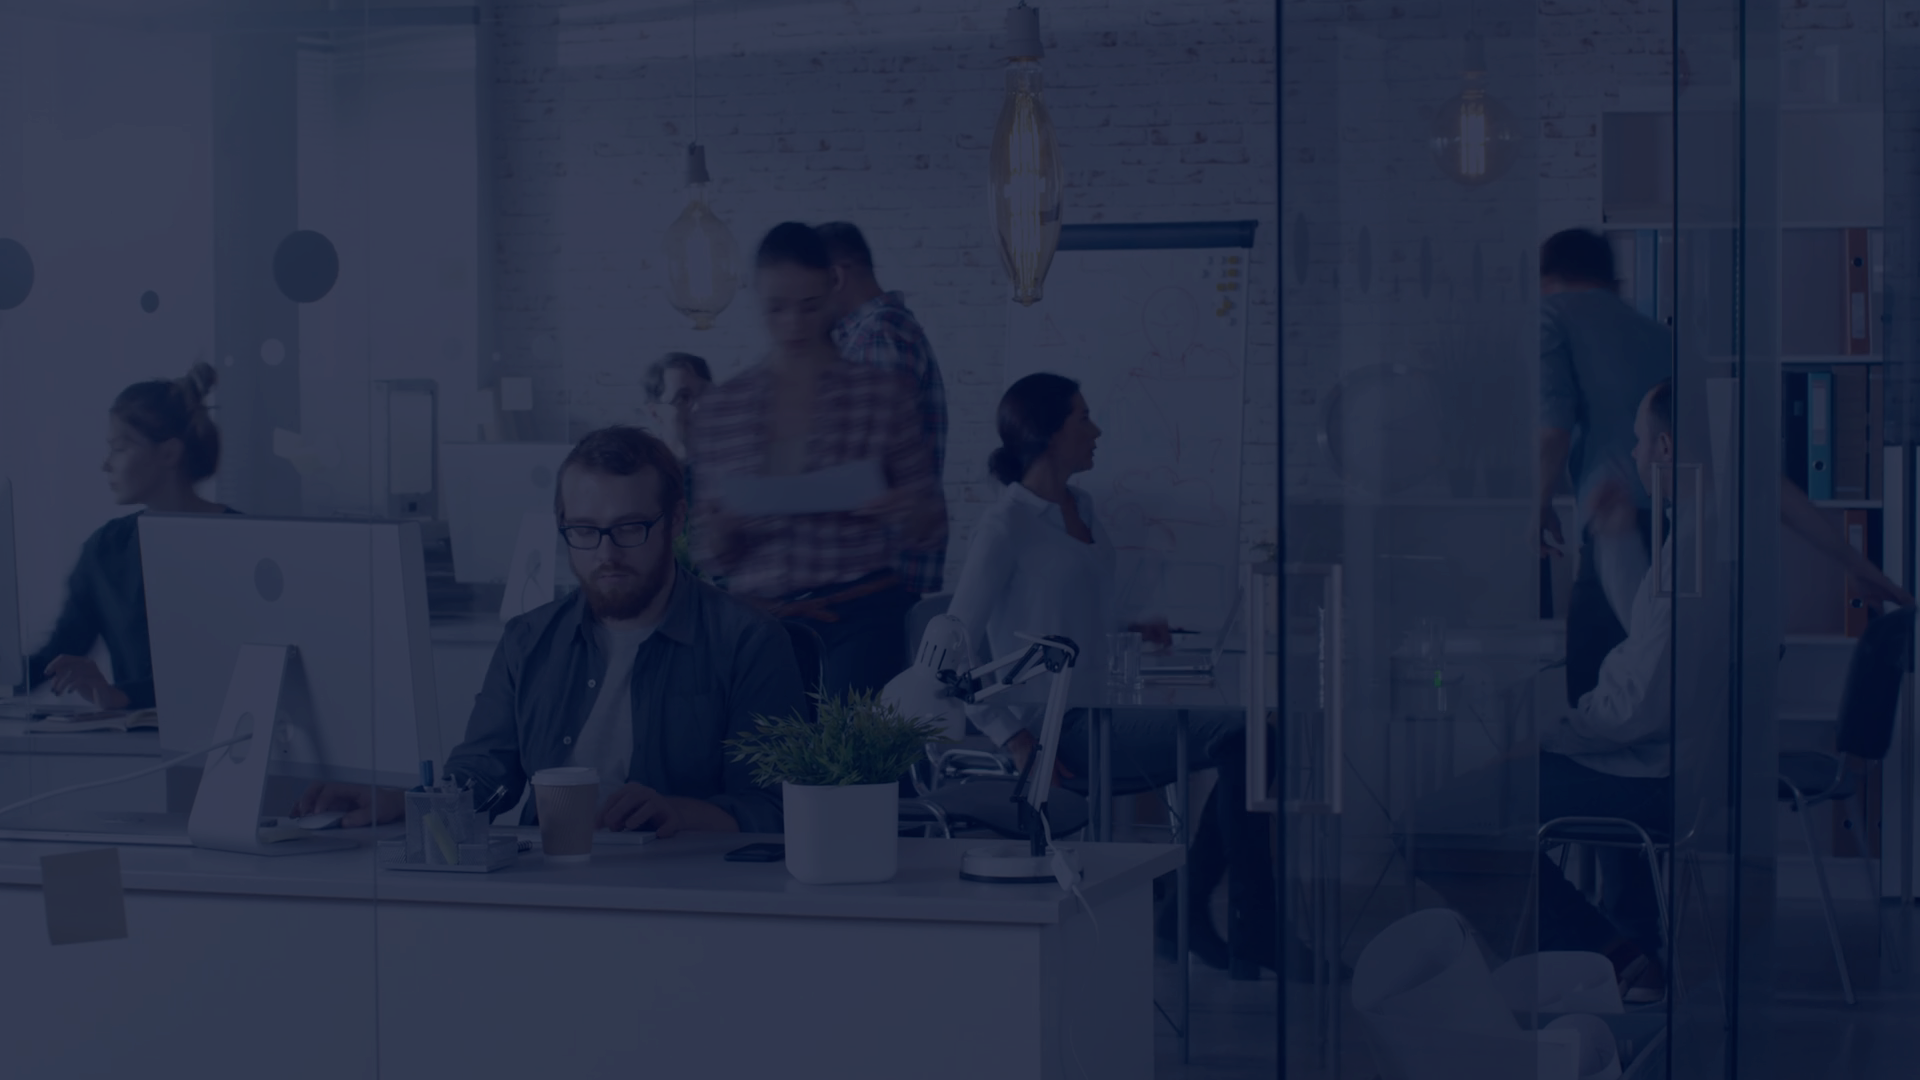
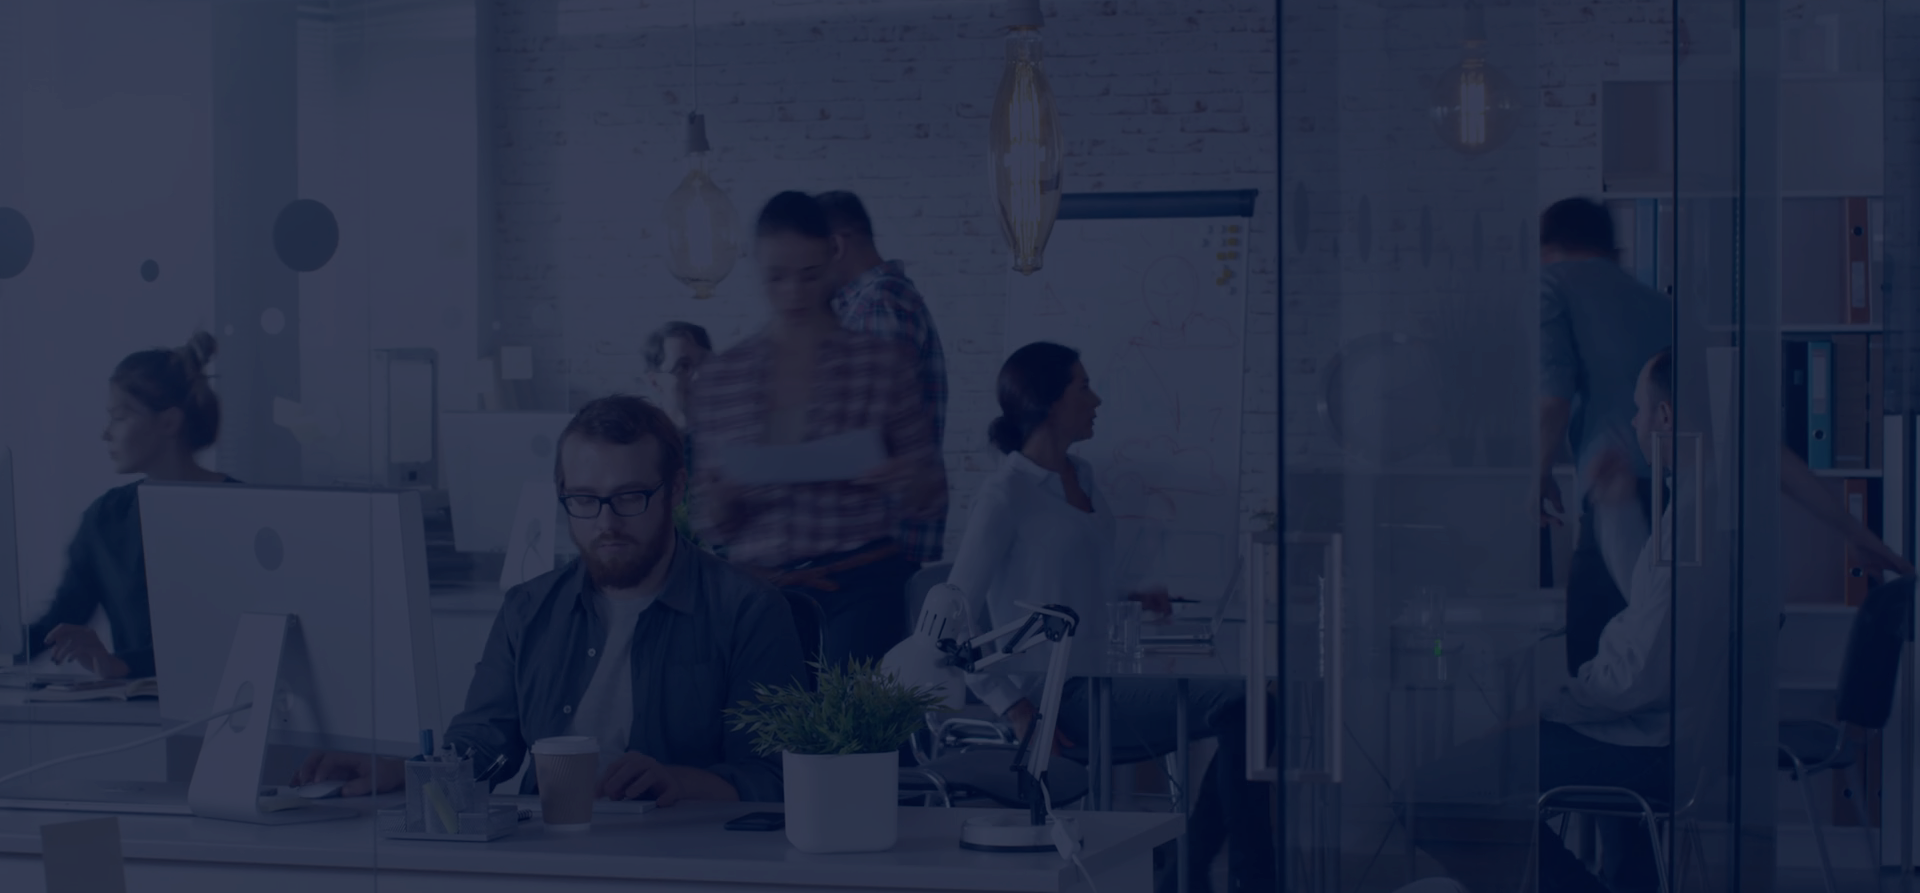
adjusted style on all sreens width

diff --git a/CSS/styles.css b/CSS/styles.css
@@ -208,7 +208,7 @@ video {
 }
 
 .mainInfo h2 {
-    text-align: left;
+    /* text-align: left; */
     margin: 20px;
     font-weight: bold;
     font-style:italic;
@@ -223,7 +223,6 @@ video {
 
 .mainInfo .describle {
     color: mediumaquamarine;
-    text-align: right;
 }
 
 .mainInfo button {
@@ -342,8 +341,8 @@ video {
 /* About Section Stylings */
 .about {
     background-image: url("../Assets/Images/Banner/We\ enable\ background\ image.png");
-    height: 70vh;
     width: 100%;
+    height: 80vh;
     background-size: cover;
     align-items: center;
     justify-content: center;
@@ -352,8 +351,8 @@ video {
 }
 
 .about .aboutContent { 
-    line-height: 2;
-    width: 50%;
+
+    width: 60%;
     margin: auto;
 }
 
@@ -361,22 +360,24 @@ video {
     font-style: italic;
     color: white;
     text-align: center;
-    padding-top: 10%;
+    padding-top: 80px;
+    /* padding-top: 10%; */
+    font-size: 4rem;
 }
 
 .about h1 {
     font-weight: 900;
     color: mediumaquamarine;
-    padding-top: 10%;
+    /* padding-top: 10%; */
+    padding-top: 80px;
 }
 
 .about p {
-    font-size: 1.5rem;
+    font-size: 2rem;
     font-weight: 500;
 }
 
 .aboutContent .click {
-    /* font-size: 1.8rem; */
     text-transform: uppercase;
     text-align: right;
     font-weight: 700;
@@ -393,7 +394,7 @@ footer {
     justify-content: space-around;
     align-items: center;
     height: 20vh;
-    min-height: 800px;
+    min-height: 750px;
     min-width: 300px;
     clear: both;
     position: relative;
@@ -830,14 +831,20 @@ footer .socialMediaContainer .socialMediaIcon:hover {
     .header{
         height: 60vh;
     }
+    .about{
+        height: 70vh;
+    }
+    .about .aboutUs {
+        font-size: 3rem;
+    }
     h1, footer h1 {
         font-size: 3rem;
     }
     h2, footer h2, header .navBar, .projectInformation .testimonial p {
         font-size: 2rem;
     }
-    p, li, footer p, .aboutTeam .teamProfiles figure figcaption p {
-        font-size: 1.1rem;
+    .about p, p, li, footer p, .aboutTeam .teamProfiles figure figcaption p {
+        font-size: 1.8rem;
     }
     footer .footerLogo {
         width: 10%;
@@ -872,8 +879,11 @@ footer .socialMediaContainer .socialMediaIcon:hover {
     h1, footer h1 {
         font-size: 3rem;
     }
+    .about .aboutUs {
+        font-size: 3rem;
+    }
     .banner h2{
-        font-size: 2rem;
+        font-size: 1.5rem;
     }
     .banner{
         width: 60%;
@@ -882,13 +892,13 @@ footer .socialMediaContainer .socialMediaIcon:hover {
         height: 60vh;
     }
     .about{
-        height: 90vh;
+        height: 60vh;
     }
     h2, header .navBar, footer .contactUsContainer h3, .projectInformation .testimonial p,.servicesTable th h2 {
         font-size: 1.1rem;
     }
-    p, li, footer p, .aboutTeam .teamProfiles figure figcaption p {
-        font-size: 1rem;
+    .about p, p, li, footer p, .aboutTeam .teamProfiles figure figcaption p {
+        font-size: 1.5rem;
     }
     .teamProfileImage{
         width: 80px;
@@ -978,6 +988,13 @@ footer .socialMediaContainer .socialMediaIcon:hover {
         margin-right: 40px;
         margin-left: 0;
     }
+    .mainInfo .mainInfoContainer{
+        display: flex;
+        flex-direction: column;
+    }
+    .about p{
+        font-size: 1.3rem;
+    }
 }
 
 /* @media (max-height: 700px){
@@ -1016,6 +1033,12 @@ footer .socialMediaContainer .socialMediaIcon:hover {
     }
     h1{
         font-size: 2.3rem;
+    }
+    .about {
+        height: 60vh;
+    }
+    .about .aboutUs {
+        font-size: 3rem;
     }
     header .navBar .navLinkText .mainInfo{
         font-size: 1.3rem;
@@ -1111,6 +1134,9 @@ footer .socialMediaContainer .socialMediaIcon:hover {
     .aboutImage .img{
         margin-top: 20px;
     }
+    .about .aboutUs {
+        font-size: 2rem;
+    }
     .aboutUs p{
         font-size: 1.2rem;
         line-height: normal;
@@ -1125,9 +1151,6 @@ footer .socialMediaContainer .socialMediaIcon:hover {
     .mainInfo p,h2{
         margin: 0;
         padding: 0;
-    }
-    .mainInfo button{
-        margin: 0;
     }
     .navBar .navLink {
         margin:0;
@@ -1262,6 +1285,9 @@ footer .socialMediaContainer .socialMediaIcon:hover {
     .mainInfo h2{
         font-size: 1rem;
     }
+    .about .aboutUs {
+        font-size: 2rem;
+    }
     .aboutUs p{
         font-size: 1.2rem;
         line-height: normal;
@@ -1341,6 +1367,9 @@ footer .socialMediaContainer .socialMediaIcon:hover {
     header .navBar .navLogo {
         margin-left: 10px;
     }
+    .about{
+        height: 60vh;
+    }
     .about .aboutContent {
         width: 70%;
     }
@@ -1350,6 +1379,7 @@ footer .socialMediaContainer .socialMediaIcon:hover {
     }
     .about .aboutUs {
         padding-top: 100px;
+        font-size: 2rem;
     }
     .about p {
         font-size: 1rem;
@@ -1414,6 +1444,10 @@ footer .socialMediaContainer .socialMediaIcon:hover {
     footer .socialMediaContainer .socialMediaIcon{
         font-size: 1rem;
     }
+    .mainInfo .mainInfoContainer{
+        display: flex;
+        flex-direction: column;
+    }
 }
 
 @media (max-height: 550px){
@@ -1462,6 +1496,10 @@ footer .socialMediaContainer .socialMediaIcon:hover {
     }
     .lightBox .contactUsForm form .formInput, .lightBox .contactUsForm form .halfFormInput, .lightBox .contactUsForm form .messageInput {
         padding: 5%;
+    }
+    .mainInfo .mainInfoContainer{
+        display: flex;
+        flex-direction: column;
     }
 }
 

diff --git a/index.html b/index.html
@@ -38,7 +38,7 @@
                         title="LIFE3"></img></a>
                         <a class="navLink navLinkText" href="Pages/empower.html">Empower</a>
             <a class="navLink navLinkText" href="Pages/enable.html">Enable</a>
-            <a class="navLink navLinkText" href="Pages/signin.php">Educate</a>
+            <!-- <a class="navLink navLinkText" href="Pages/signin.php">Educate</a> -->
             <!-- <a href="#contactUs"><button class="contactUsButton"><p>Contact Us</p></button></a> -->
         </nav>
          
@@ -250,7 +250,7 @@
                 </div>
             </div>
 
-            <div class="weAdvise" style="height: 35%;">
+            <div class="weAdvise">
                 <div>
                     <img class="phaseIcon" src="Assets/Images/Icons/We advise.png">
                     <h2>We Advise</h2>
@@ -285,7 +285,7 @@
                     <select id="mylist" name="Organization Type" placeholder="CompanyType">
                         <option value ="Technical company">Technical company</option>
                         <option value ="Educational institution">Educational institution</option>
-                        <option value ="others">others</option>
+                        <option value ="others">Other</option>
                     </select> 
                 </div>
                 <div class="formInput">
